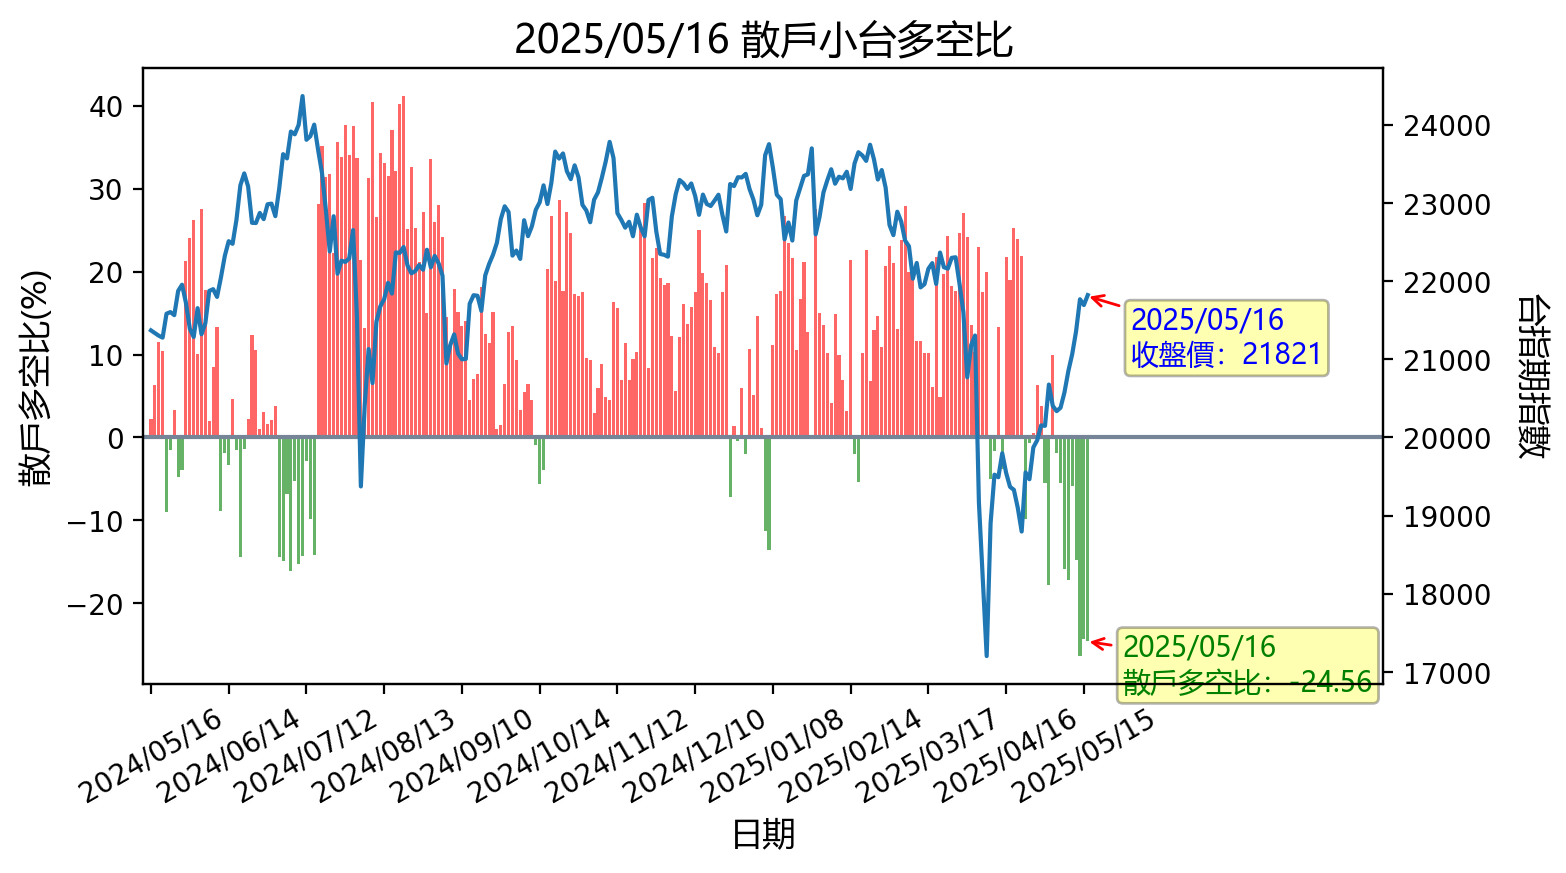
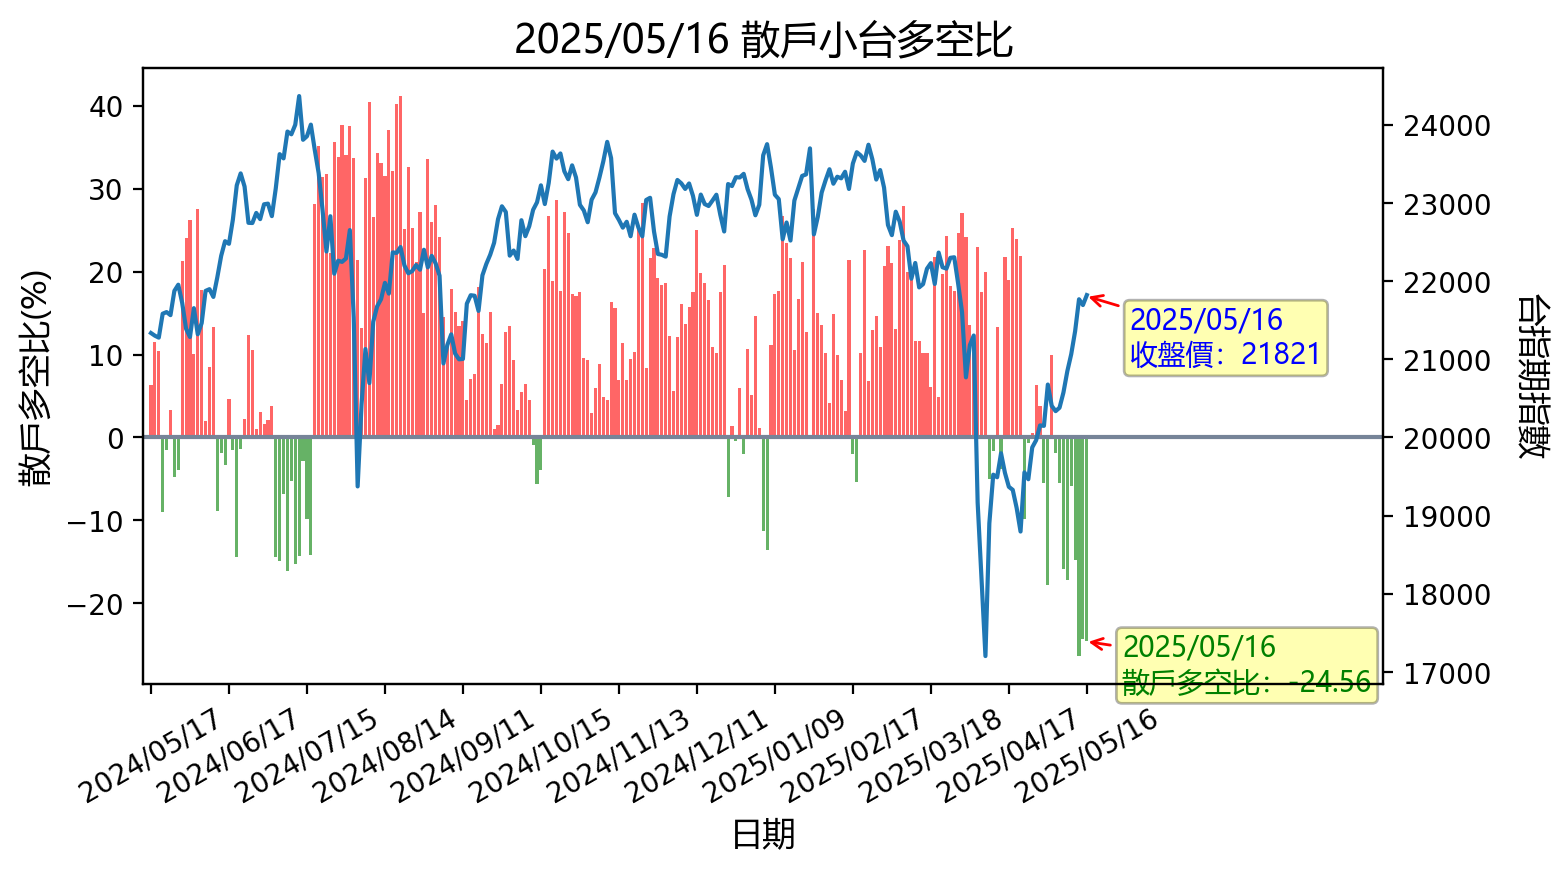
更新時間: Sat May 17 16:35:12 CST 2025

diff --git a/README.md b/README.md
@@ -1,12 +1,12 @@
-## 20250516 台指期「預估換倉成本」
+## 20250517 台指期「預估換倉成本」
 ![](images/txfcost.png)
 
-## 20250516 台指期「散戶小台多空比」
+## 20250517 台指期「散戶小台多空比」
 ![](images/bbiri.png)
 
-## 20250516 台指選擇權「Put/Call Ratios」
+## 20250517 台指選擇權「Put/Call Ratios」
 ![](images/pcratio.png)
 
-## 20250516 台指期「大額交易人」
+## 20250517 台指期「大額交易人」
 ![](images/blocktrade.png)
 
